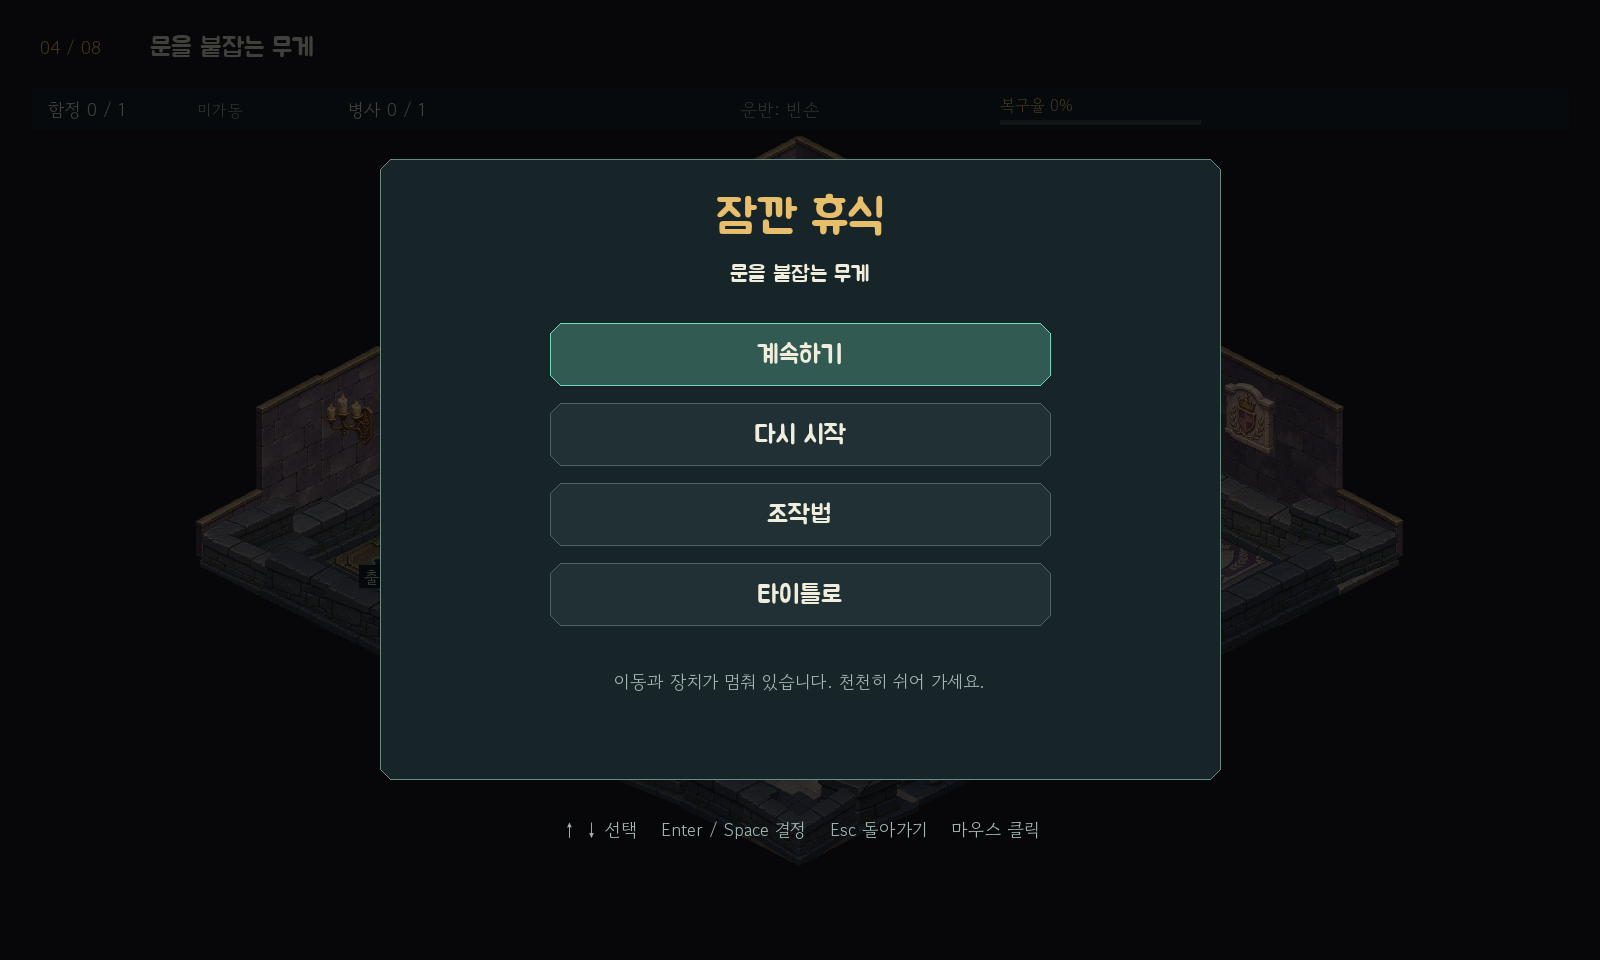
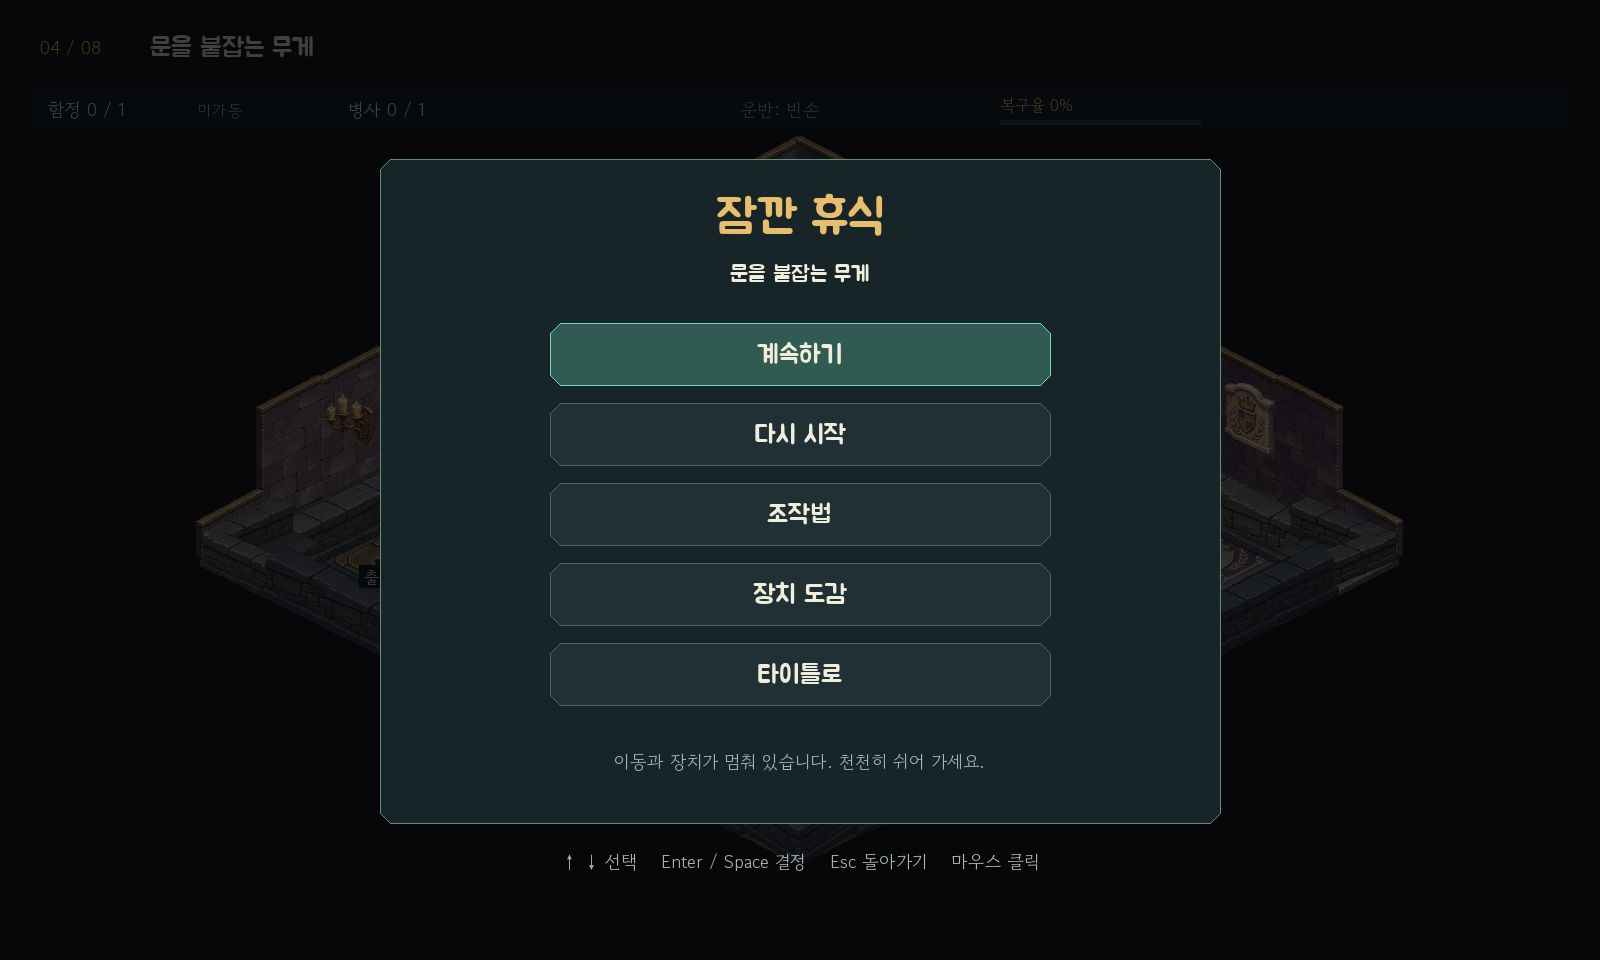
feat: 그림과 작동 조건을 담은 카드형 장치 도감 추가

Changed region(s): [[0.2188, 0.7812, 0.7812, 0.9062], [0.4062, 0.6875, 0.5625, 0.7188], [0.4688, 0.5938, 0.5312, 0.625]]

diff --git a/game/device_catalog.py b/game/device_catalog.py
@@ -1,0 +1,113 @@
+"""실제 게임 그림과 짧은 작동 조건으로 읽는 장치 도감."""
+
+from dataclasses import dataclass
+import ctypes
+
+import pico2d.pico2d as p
+
+from game.front_end import Button, bevel
+from game.logo_mode import fade_to_black
+
+INK = (239, 237, 219)
+MUTED = (164, 182, 177)
+GOLD = (231, 190, 108)
+TEAL = (112, 216, 190)
+CARDS_PER_PAGE = 3
+
+
+@dataclass(frozen=True)
+class DeviceCard:
+    kind: str
+    title: str
+    pictures: tuple[tuple[str, str], ...]
+    action: str
+    rule: str
+
+
+CARDS = (
+    DeviceCard("trap", "함정 복구", (("trap_broken", "파손"), ("trap_active", "가동")),
+               "부품을 들고 함정 위에서 E / Space로 설치하세요.",
+               "설치만 한 함정은 통과 가능. 가동하면 지나갈 수 없어요."),
+    DeviceCard("lever", "레버 가동", (("lever_off", "대기"), ("lever_on", "가동")),
+               "모든 함정을 설치한 뒤 빈손으로 레버 위에서 E / Space를 누르세요.",
+               "가동 전에 남은 작업과 출구로 돌아갈 길을 확인하세요."),
+    DeviceCard("assembly", "해골 병사 조립", (("bench_empty", "작업대"), ("soldier_deployed", "병사")),
+               "작업대에 뼈 2묶음을 하나씩 납품하고, 완성된 병사를 배치대로 옮기세요.",
+               "배치대에서 E / Space로 배치. 배치한 칸은 다시 들어갈 수 없어요."),
+    DeviceCard("plate", "발판과 연결문", (("plate_down", "발판"), ("gate_open", "연결문")),
+               "수리공이나 물건으로 발판을 누르면 연결된 문이 열려요.",
+               "무게가 사라지면 닫혀요. 문 위에 있으면 나갈 때까지 기다려요."),
+    DeviceCard("chute", "뼈 투입구", (("chute_inlet", "투입구"), ("chute_outlet", "배출구")),
+               "뼈를 들고 투입구 위에서 E / Space를 누르면 연결된 배출구로 보내요.",
+               "뼈만 전송 가능. 배출구가 물건이나 병사로 막히면 보낼 수 없어요."),
+    DeviceCard("belt", "운반 벨트", (("conveyor_se", "벨트"), ("part", "운반할 부품")),
+               "부품이나 조립한 병사를 내려놓으면 화살표 방향으로 자동 운반해요.",
+               "뼈와 수리공은 운반 불가. 막히면 정지하며 추가 행동은 쓰지 않아요."),
+)
+PAGE_COUNT = (len(CARDS) + CARDS_PER_PAGE - 1) // CARDS_PER_PAGE
+
+
+def present_devices(level):
+    return {kind for kind, exists in (
+        ("trap", level.traps), ("lever", level.levers),
+        ("assembly", level.benches and level.posts), ("plate", level.gates),
+        ("chute", level.chutes), ("belt", level.belts)) if exists}
+
+
+def catalog_buttons():
+    return (Button("catalog_prev", "이전 카드", (94, 206, 354, 262)),
+            Button("catalog_next", "다음 카드", (1246, 206, 1506, 262)),
+            Button("catalog_back", "메뉴로 돌아가기", (600, 140, 1000, 196)))
+
+
+def picture(view, name, x, y, width=160, height=126):
+    entry = view.art.manifest["sprites"][name]
+    rect = entry["content_rect"]
+    scale = min(width / rect["width"], height / rect["height"])
+    anchor = {"x": rect["left"] + rect["width"] / 2,
+              "y": rect["top"] + rect["height"] / 2}
+    view.art.draw(name, x, y, scale, anchor=anchor)
+
+
+def card_text(view, x, y, value, size, color):
+    """짧은 고정 문구를 단어 단위로 감싸 조작키와 낱말이 쪼개지지 않게 한다."""
+    current = ""
+    for word in value.split():
+        candidate = f"{current} {word}" if current else word
+        width = ctypes.c_int()
+        p.TTF_SizeUTF8(view.fonts[size].font, candidate.encode(), ctypes.byref(width), None)
+        if current and width.value > 388:
+            view.text(x, y, current, size, color)
+            y -= size + 9
+            current = word
+        else:
+            current = candidate
+    if current:
+        view.text(x, y, current, size, color)
+    return y
+
+
+def draw_catalog(view, game, page):
+    fade_to_black(.8)
+    bevel((64, 120, 1536, 886), (22, 35, 40), (104, 139, 127))
+    view.centered(800, 840, "던전 정비 수첩", 48, GOLD)
+    view.centered(800, 792, "장치의 모습과 작동 조건을 확인하세요.", 18, INK)
+    present = present_devices(game.level)
+    cards = CARDS[page * CARDS_PER_PAGE:(page + 1) * CARDS_PER_PAGE]
+    if any(name.startswith("gate_") for card in cards for name, _ in card.pictures):
+        view.art.load_gates()
+    for index, card in enumerate(cards):
+        left, bottom, right, top = 94 + index * 476, 298, 530 + index * 476, 746
+        in_room = card.kind in present
+        bevel((left, bottom, right, top), (30, 48, 52), TEAL if in_room else (81, 99, 99))
+        view.text(left + 24, top - 27, "이 방에 있음" if in_room else "다른 구역의 장치", 16, TEAL if in_room else MUTED)
+        view.text(left + 24, top - 68, card.title, 32, INK)
+        for i, (name, label) in enumerate(card.pictures):
+            x = left + 114 + i * 206
+            picture(view, name, x, top - 167)
+            view.centered(x, top - 247, label, 16, MUTED)
+        view.text(left + 24, top - 284, "사용 방법", 16, TEAL)
+        last = card_text(view, left + 24, top - 313, card.action, 18, INK)
+        card_text(view, left + 24, last - 39, card.rule, 16, GOLD)
+    view.centered(800, 234, f"{page + 1} / {PAGE_COUNT}    ← → 페이지 이동", 18, INK)
+    view.centered(800, 78, "도감을 읽는 동안 게임은 멈춥니다.    Esc 메뉴로 돌아가기", 18, INK)

diff --git a/tests/smoke_device_catalog.py b/tests/smoke_device_catalog.py
@@ -1,0 +1,128 @@
+"""실제 장치 그림·카드 여백·페이지 이동·게임 입력 격리를 검사한다."""
+
+from copy import deepcopy
+import ctypes
+from pathlib import Path
+from types import SimpleNamespace
+from unittest.mock import patch
+
+import pico2d.pico2d as p
+
+from game import view
+from game.device_catalog import CARDS, PAGE_COUNT, present_devices
+from game.levels import load_levels
+from game.model import Game
+from game.play_menu import PlayMenu
+from tests.smoke_onboarding import capture
+from tests.smoke_play_menu import key, click, pixels
+
+
+def render_checks(levels):
+    p.open_canvas(view.WIDTH, view.HEIGHT, sync=True)
+    display = None
+    original_text = view.View.text
+    folder = Path("docs/screenshots/device-catalog")
+
+    def checked_text(display, x, y, value, size=18, color=view.INK):
+        width = ctypes.c_int()
+        p.TTF_SizeUTF8(display.fonts[size].font, str(value).encode(), ctypes.byref(width), None)
+        assert 0 <= x and x + width.value <= view.WIDTH, (value, x, width.value)
+        for ch in str(value):
+            if ch.isprintable():
+                assert p.TTF_GlyphIsProvided(display.fonts[size].font, ord(ch)), (value, ch)
+        # 카드 본문이 아래 경계나 옆 카드로 넘치지 않아야 한다.
+        if x in (118, 594, 1070) and y < 470:
+            assert y >= 315 and width.value <= 388, (value, x, y, width.value)
+        original_text(display, x, y, value, size, color)
+
+    try:
+        display = view.View()
+        menu = PlayMenu()
+        game = Game(levels[-1])
+        initial = deepcopy(game.state)
+        menu.open(display)
+        menu.activate("catalog")
+        assert present_devices(game.level) == {card.kind for card in CARDS}
+        for page in range(PAGE_COUNT):
+            menu.catalog_page = page
+            display.draw(game, 7, len(levels))
+            with patch.object(view.View, "text", checked_text):
+                menu.draw(display, game)
+            capture(folder / f"page-{page + 1:02d}.png")
+            for card in CARDS[page * 3:page * 3 + 3]:
+                for name, _ in card.pictures:
+                    rect = display.art.manifest["sprites"][name]["content_rect"]
+                    assert rect["width"] > 0 and rect["height"] > 0
+            before = pixels()
+            with patch.object(view, "perf_counter", return_value=100000):
+                display.draw(game, 7, len(levels))
+                menu.draw(display, game)
+                assert before == pixels(), "도감 중 플레이 화면이 움직임"
+            assert game.state == initial and not game.history
+        assert present_devices(levels[0]) == {"trap", "lever"}
+    finally:
+        if display:
+            display.close()
+        p.close_canvas()
+
+
+def input_checks(levels):
+    games, menus = [], []
+    frame = -1
+    update = p.update_canvas
+    batches = [
+        ([key(p.SDLK_ESCAPE)], "pause", 0, 0),
+        ([click(800, 365), key(p.SDLK_d)], "catalog", 0, 0),
+        ([key(p.SDLK_RIGHT)], "catalog", 1, 0),
+        ([key(p.SDLK_e), key(p.SDLK_r), key(p.SDLK_2)], "catalog", 1, 0),
+        ([click(224, 234)], "catalog", 0, 0),
+        ([key(p.SDLK_LEFT)], "catalog", 1, 0),
+        ([click(800, 168)], "pause", 1, 0),
+        ([key(p.SDLK_ESCAPE), key(p.SDLK_d)], None, 1, 0),
+        ([key(p.SDLK_d)], None, 1, 1),
+        ([key(p.SDLK_ESCAPE)], "pause", 1, 1),
+        ([key(p.SDLK_DOWN)] * 3 + [key(p.SDLK_RETURN)], "catalog", 0, 1),
+        ([key(p.SDLK_ESCAPE)], "pause", 0, 1),
+        ([key(p.SDLK_ESCAPE)], None, 0, 1),
+        ([SimpleNamespace(type=p.SDL_QUIT)], None, 0, 1),
+    ]
+
+    class ObservedGame(Game):
+        def __init__(self, level):
+            super().__init__(level)
+            games.append(self)
+
+    class ObservedMenu(PlayMenu):
+        def __init__(self):
+            super().__init__()
+            menus.append(self)
+
+    def events():
+        nonlocal frame
+        frame += 1
+        assert frame < len(batches)
+        return batches[frame][0]
+
+    def checked_update():
+        if frame >= 0:
+            _, mode, page, moves = batches[frame]
+            assert menus[-1].mode == mode, (frame, menus[-1].mode)
+            assert menus[-1].catalog_page == page
+            assert games[-1].level is levels[0] and games[-1].state.moves == moves, frame
+        update()
+
+    with patch.object(view, "Game", ObservedGame), patch.object(view, "PlayMenu", ObservedMenu), \
+            patch.object(p, "get_events", events), patch.object(p, "update_canvas", checked_update):
+        view.run(levels, show_title=False)
+    assert frame == len(batches) - 1
+
+
+def main():
+    levels = load_levels()
+    render_checks(levels)
+    input_checks(levels)
+    print("Device catalog smoke OK: six illustrated cards, page wrap, room presence, glyphs/card bounds, frozen scene, keyboard/mouse, modal input isolation and resume.")
+
+
+if __name__ == "__main__":
+    main()

diff --git a/game/play_menu.py b/game/play_menu.py
@@ -7,6 +7,7 @@ from game.layout import WIDTH, HEIGHT
 from game.logo_mode import fade_to_black
 from game.tutorial import device_lessons
 from game.device_guide import target_bounds, card_bounds, draw_lesson
+from game.device_catalog import PAGE_COUNT, catalog_buttons, draw_catalog
 
 INK = (239, 237, 219)
 MUTED = (164, 182, 177)
@@ -46,6 +47,7 @@ class PlayMenu:
         self.return_mode = None
         self.guide_bounds = {}
         self.guide_card = (32, 360, 452, 790)
+        self.catalog_page = 0
 
     @property
     def active(self):
@@ -81,6 +83,8 @@ class PlayMenu:
 
     @property
     def buttons(self):
+        if self.mode == "catalog":
+            return catalog_buttons()
         if self.mode == "device":
             left, bottom, right, _ = self.guide_card
             label = "안내 마치기" if self.page_index == len(self.pages) - 1 else "다음 장치"
@@ -94,10 +98,16 @@ class PlayMenu:
         return tuple(Button(action, label, (550, 574 - i * 80, 1050, 636 - i * 80))
                      for i, (action, label) in enumerate((
                          ("resume", "계속하기"), ("restart", "다시 시작"),
-                         ("controls", "조작법"), ("title", "타이틀로"))))
+                         ("controls", "조작법"), ("catalog", "장치 도감"), ("title", "타이틀로"))))
 
     def activate(self, action):
-        if action in ("guide_next", "guide_skip"):
+        if action == "catalog":
+            self.mode, self.selected, self.catalog_page = "catalog", 2, 0
+        elif action in ("catalog_prev", "catalog_next"):
+            self.catalog_page = (self.catalog_page + (1 if action == "catalog_next" else -1)) % PAGE_COUNT
+        elif action == "catalog_back":
+            self.mode, self.selected = "pause", 3
+        elif action in ("guide_next", "guide_skip"):
             self.seen_devices.update(lesson.kind for lesson in
                                      (self.pages if action == "guide_skip" else (self.pages[self.page_index],)))
             if action == "guide_skip" or self.page_index + 1 == len(self.pages):
@@ -123,8 +133,10 @@ class PlayMenu:
                         return self.activate(button.action)
                     break
         elif event.type == p.SDL_KEYDOWN:
+            if self.mode == "catalog" and event.key in (p.SDLK_LEFT, p.SDLK_RIGHT):
+                return self.activate("catalog_prev" if event.key == p.SDLK_LEFT else "catalog_next")
             if event.key == p.SDLK_ESCAPE:
-                action = "guide_skip" if self.mode == "device" else "back" if self.mode == "controls" else "resume"
+                action = {"device": "guide_skip", "controls": "back", "catalog": "catalog_back"}.get(self.mode, "resume")
                 return self.activate(action)
             if event.key in (p.SDLK_UP, p.SDLK_w, p.SDLK_DOWN, p.SDLK_s, p.SDLK_TAB):
                 step = -1 if event.key in (p.SDLK_UP, p.SDLK_w) else 1
@@ -141,6 +153,10 @@ class PlayMenu:
             view.centered((left + right) / 2, (bottom + top) / 2, button.label, 26, INK)
 
     def draw(self, view, game):
+        if self.mode == "catalog":
+            draw_catalog(view, game, self.catalog_page)
+            self.draw_buttons(view)
+            return
         if self.mode == "device":
             lesson = self.pages[self.page_index]
             self.guide_bounds = target_bounds(view, game.level, lesson.targets)
@@ -149,7 +165,7 @@ class PlayMenu:
             self.draw_buttons(view)
             return
         fade_to_black(.72)
-        bevel((380, 180, 1220, 800), (23, 36, 40), (104, 139, 127))
+        bevel((380, 180 if self.mode == "controls" else 136, 1220, 800), (23, 36, 40), (104, 139, 127))
         if self.mode == "controls":
             view.centered(800, 742, "작업 조작법", 48, GOLD)
             controls = (
@@ -169,8 +185,8 @@ class PlayMenu:
             view.centered(800, 742, "잠깐 휴식", 48, GOLD)
             view.centered(800, 686, game.level.title, 22, INK)
             hint = ("다시 시작하면 현재 방의 작업과 행동 횟수가 초기화됩니다." if self.selected == 1 else
-                    "타이틀로 돌아가면 현재 방의 진행이 초기화됩니다." if self.selected == 3 else
+                    "타이틀로 돌아가면 현재 방의 진행이 초기화됩니다." if self.selected == 4 else
                     "이동과 장치가 멈춰 있습니다. 천천히 쉬어 가세요.")
-            view.centered(800, 278, hint, 18, MUTED)
+            view.centered(800, 198, hint, 18, MUTED)
         self.draw_buttons(view)
-        view.centered(800, 130, "↑ ↓ 선택    Enter / Space 결정    Esc 돌아가기    마우스 클릭", 18, MUTED)
+        view.centered(800, 98, "↑ ↓ 선택    Enter / Space 결정    Esc 돌아가기    마우스 클릭", 18, MUTED)
